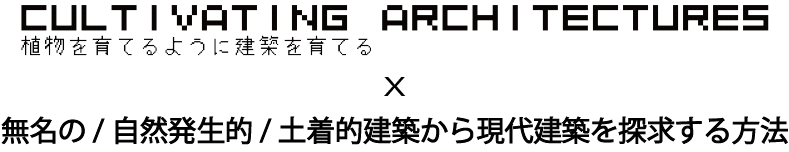
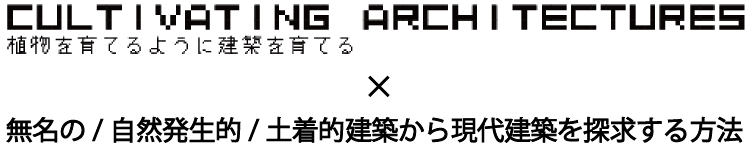
changed title

Changed region(s): [[0.0, 0.0267, 1.0, 0.3733], [0.0, 0.7467, 1.0, 0.96], [0.4894, 0.5067, 0.5199, 0.64]]

diff --git a/src/page/loading.tsx b/src/page/loading.tsx
@@ -41,7 +41,7 @@ const Loading: React.FC<LoadingProps> = ({ setData }) => {
     }, [setData])
     return(
         <Box sx={loadingBox}>
-            <Image boxSize="160px" src={ADLLogo} style={{marginLeft: '12px'}} />
+            <Image boxSize="160px" src={ADLLogo}/>
             <Image boxSize="160px" src={ErikaLabLogo} objectFit="contain" />
         </Box>
     )

diff --git a/src/global/components/Header.tsx b/src/global/components/Header.tsx
@@ -1,5 +1,5 @@
 import { Box, Divider, Image } from '@chakra-ui/react';
-import Title from 'image/Asset2.png';
+import Title from 'image/Title.png';
 import { SetStateAction, useEffect, useRef } from 'react';
 
 interface HeaderProps {
